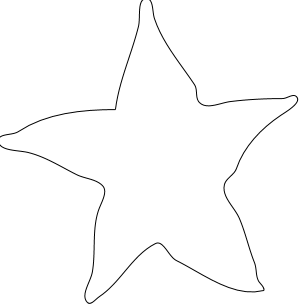
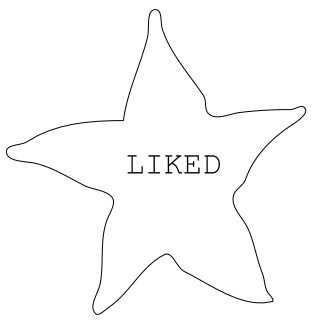
recipe page

diff --git a/p2/src/components/pages/RecipePage.vue b/p2/src/components/pages/RecipePage.vue
@@ -1,14 +1,34 @@
 <template>
   <div id='recipe-page'>
     <div v-if='recipe'>
-      <p>{{ recipe.name }}</p>
-      <p>{{ recipe.referenceType }}</p>
-      <p>{{ recipe.reference }}</p>
-      <p>{{ recipe.numberOfTimesCooked }}</p>
-      <p>{{ recipe.liked }}</p>
-      <p>{{ recipe.ingredients }}</p>
-      <p>{{ recipe.healthiness }}</p>
-      <p>{{ recipe.categories }}</p>
+      <div class="row">
+        <div class="column familiarity">
+          <div v-if='recipe.liked'>
+            <img alt="Liked" src="@/assets/images/star.png" style='width:125px'>
+          </div>
+          <p>{{numberOfTimesCookedText}}</p>
+        </div>
+        <div class="column details">
+          <h2>{{recipe.name}}</h2>
+          <p>
+            <u>Ingredients:</u>
+            <ul>
+              <li v-for='ingredient in recipe.ingredients' :key='ingredient'>{{ingredient}}</li>
+            </ul>
+          </p>
+          <p><u>Healthiness:</u> {{ recipe.healthiness }}</p>
+          <p>
+            <u>Categories:</u>
+            <ul>
+              <li v-for='category in recipe.categories' :key='category'>{{category}}</li>
+            </ul>
+          </p>
+        </div>
+        <div class="column">
+          <p>{{ recipe.referenceType }}</p>
+          <p>{{ recipe.reference }}</p>
+        </div>
+      </div>
     </div>
   </div>
 </template>
@@ -28,9 +48,29 @@ export default {
     app.api.get('recipes', this.id).then(response => {
       this.recipe = response;
     });
+  },
+  computed: {
+    numberOfTimesCookedText: function() {
+      let singular = this.recipe.numberOfTimesCooked == 1
+      return "Made " + this.recipe.numberOfTimesCooked + " " + (singular ? 'time' : 'times');
+    }
   }
 };
 </script>
 
 <style scoped>
+.familiarity {
+  border: 1px solid black;
+  width: 20%;
+  margin-top: 30px;
+  margin-right: 30px;
+}
+
+.details {
+  width: 40%;
+}
+.row {
+  margin-top: 50px;
+}
+
 </style>

diff --git a/p2/src/assets/scss/p2.scss b/p2/src/assets/scss/p2.scss
@@ -105,6 +105,19 @@ nav ul {
         }
     }
 }
+
+.column {
+  float: left;
+  width: 30%;
+  padding: 10px;
+}
+
+.row:after {
+  content: "";
+  display: table;
+  clear: both;
+}
+
 /*----------------------------------------------------
 PAGE SPECIFIC
 -----------------------------------------------------*/
